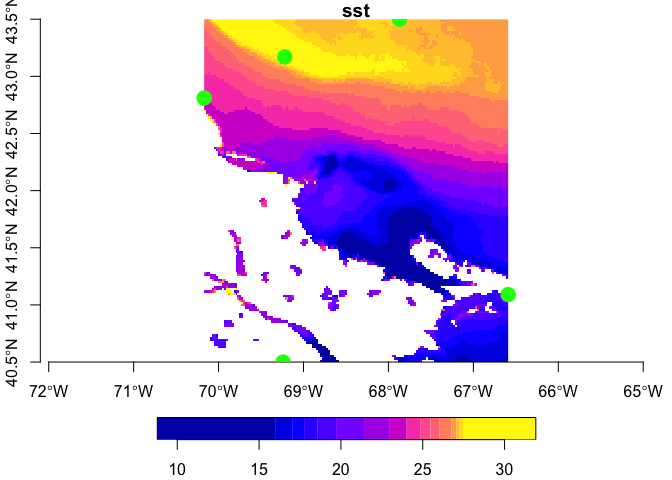
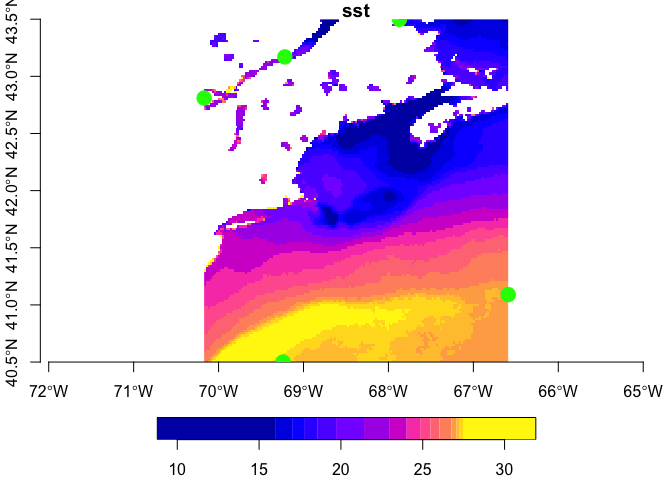
resolve search pattern for monthly climatologies

Changed region(s): [[0.2812, 0.0312, 0.7812, 0.7812]]

diff --git a/README.md b/README.md
@@ -139,7 +139,7 @@ x <- xyzt::read_gom() |>
 # open the resource
 X <- ncdf4::nc_open(uri)
 
-covars <- obpg::extract(x, X, varname = obpg::obpg_vars(X))
+covars <- obpg::extract(x, X, varname = obpg::obpg_vars(X), flip = "none")
 covars
 ```
 
